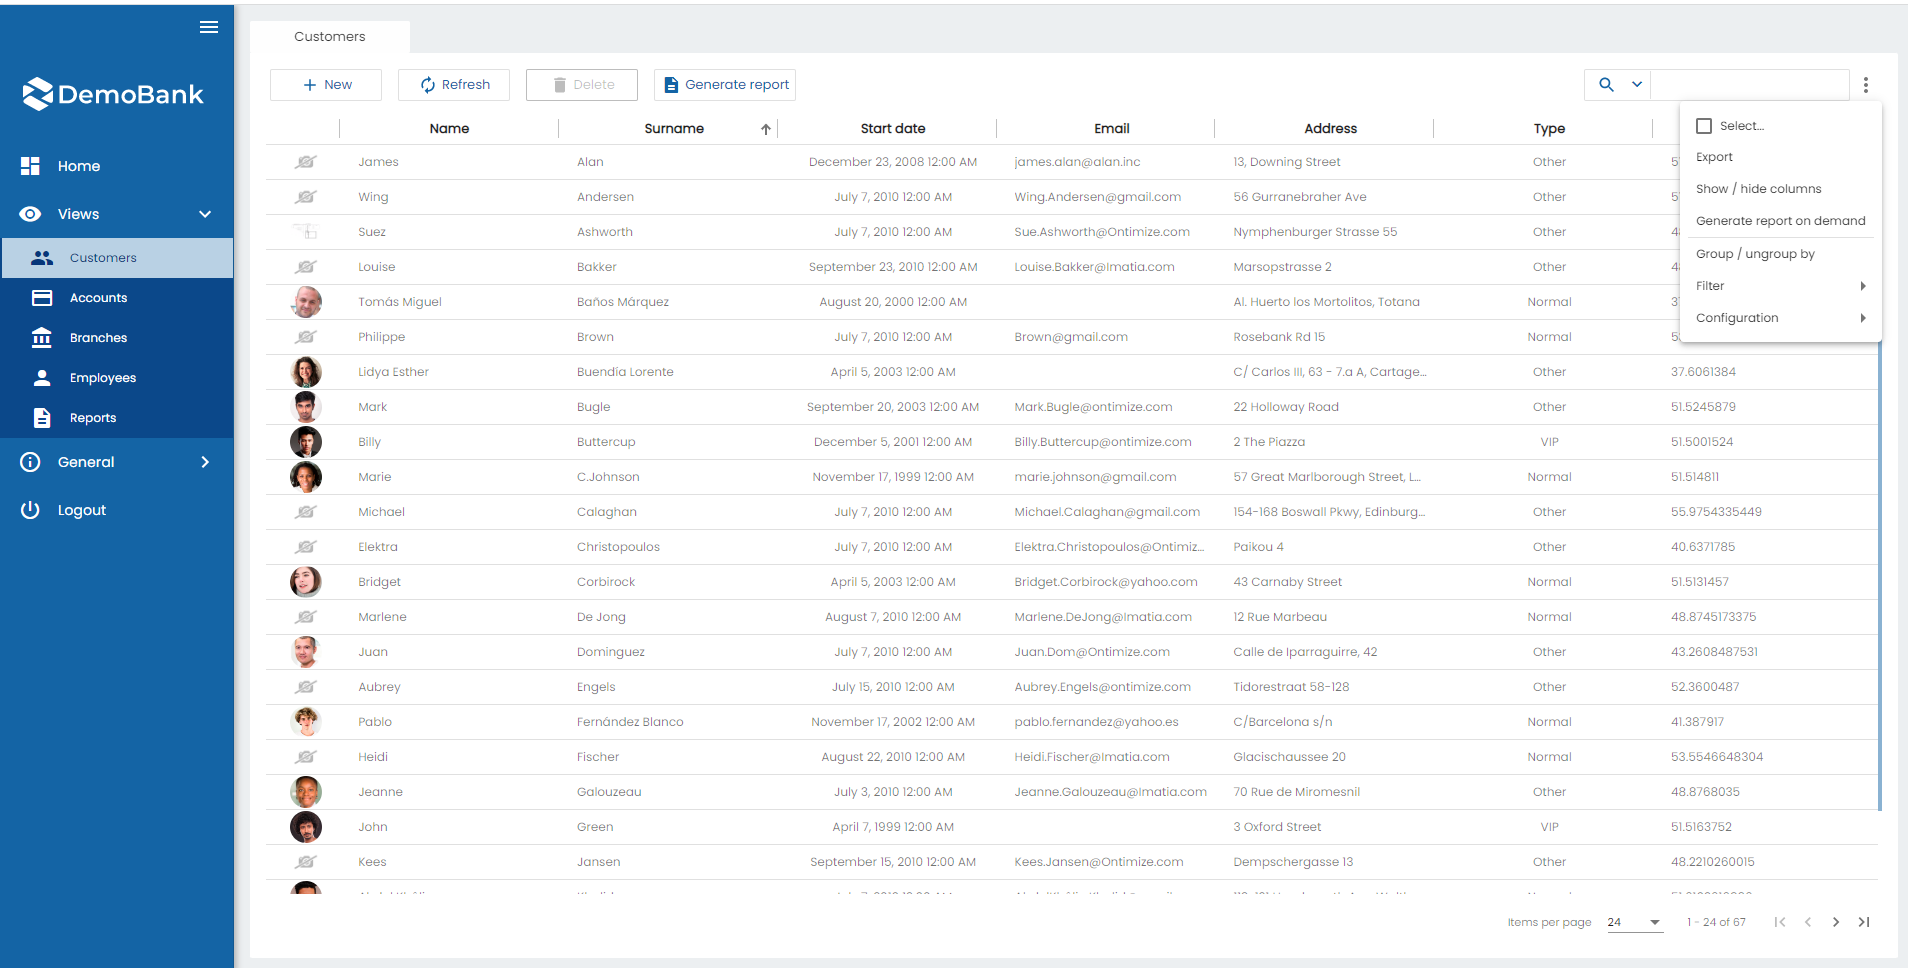
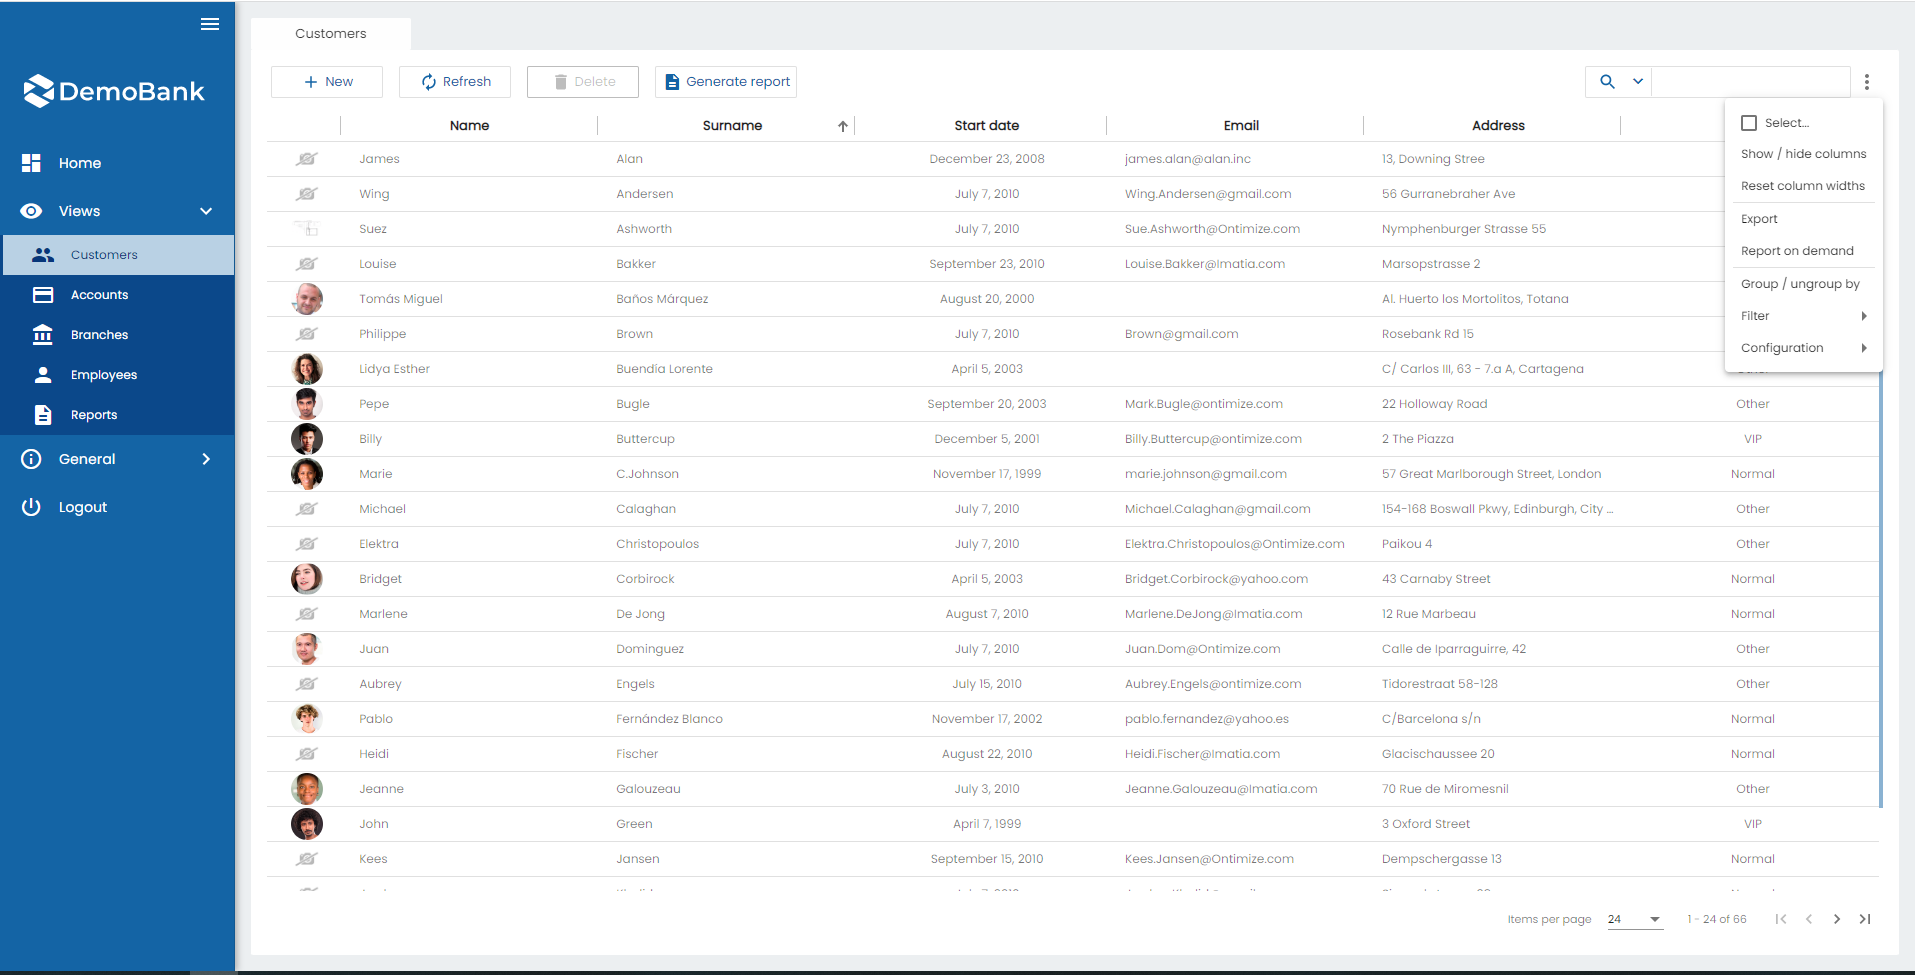
Added report on demand menu option (#320)
* added report on demand menu option

* modified menu option image

diff --git a/_o_components/35-o-table.component.md b/_o_components/35-o-table.component.md
@@ -1233,7 +1233,7 @@ this.table.reinitialize({ columns: columnsOfTable, visibleColumns: columnsOfTabl
 
 ```
 
-### Expandable row <span class='menuitem-badge'>new<span>
+### Expandable row
 
 The `o-table-row-expandable` component enable you to provide additional details about a particular row of table data through expanding or collapsing its content. It's necessary to wrap the content of your template with the `<ng-template let-row></ng-template>` tag and add the template definition inside.
 
@@ -1307,7 +1307,7 @@ The `o-table` component has an input to control expandable row and show or not t
 
 
 
-### Autoadjust <span class='menuitem-badge'>new<span>
+### Autoadjust
 
 The `o-table` component supports automatically adjust to the content of the column setting `auto-adjust = yes`. This means that it will always take up the minimum width required to present its content.
 
@@ -1364,7 +1364,7 @@ However, if you want to control similar case, you can do so by configuring `auto
 
 ![Table width autoadjust]({{ "/images/components/tabla/table_autoadjust_maxwidth.PNG" | absolute_url }}){: .comp-example-img}
 
-### Row grouping <span class='menuitem-badge'>new<span>
+### Row grouping
 
 Ontimize Web allows to merge fields belonging to one column so that the consecutive fields have the same value through the **row grouping**. Each group will be marked with one row with joined cells above containing the group value.
 
@@ -1424,6 +1424,12 @@ You can configure if you want the groups to appear by default expanded or collap
 For more information see the API.
 
 > NOTE: There is no limit on the number of columns that the table can group by.
+
+### Report on demand <span class='menuitem-badge'>new<span>
+
+The `o-table` component has a new option in table menu that allows the final users of the applications developed with Ontimize to define, view and store reports from any table available in the application. This menu option is enabled by default.  Using `show-report-on-demand-option` property you can modify the default value. For more information see the **API**. You can also find more information about reports in their documentation following this [link](https://ontimizeweb.github.io/docs/v8/report/components/report-on-demand/overview){:target="_blank"}.
+
+![Report on-demand example ]({{ "/images/report/basicReportOnDemand.PNG" | absolute_url }}){: .comp-example-img}
 
 ## Theming
 ### The table headers

diff --git a/_ontimize_web_ngx_report/components/report-on-demand.md b/_ontimize_web_ngx_report/components/report-on-demand.md
@@ -28,7 +28,7 @@ This visual tool will allow users to define parameters of the report such as:
 
 ## Menu option
 
-![Report on demand menu option]({{ "/images/report/menuOption.png" | absolute_url }}){: .comp-example-img}
+![Report on demand menu option]({{ "/images/report/menuOption.PNG" | absolute_url }}){: .comp-example-img}
 
 ## Basic example
 
